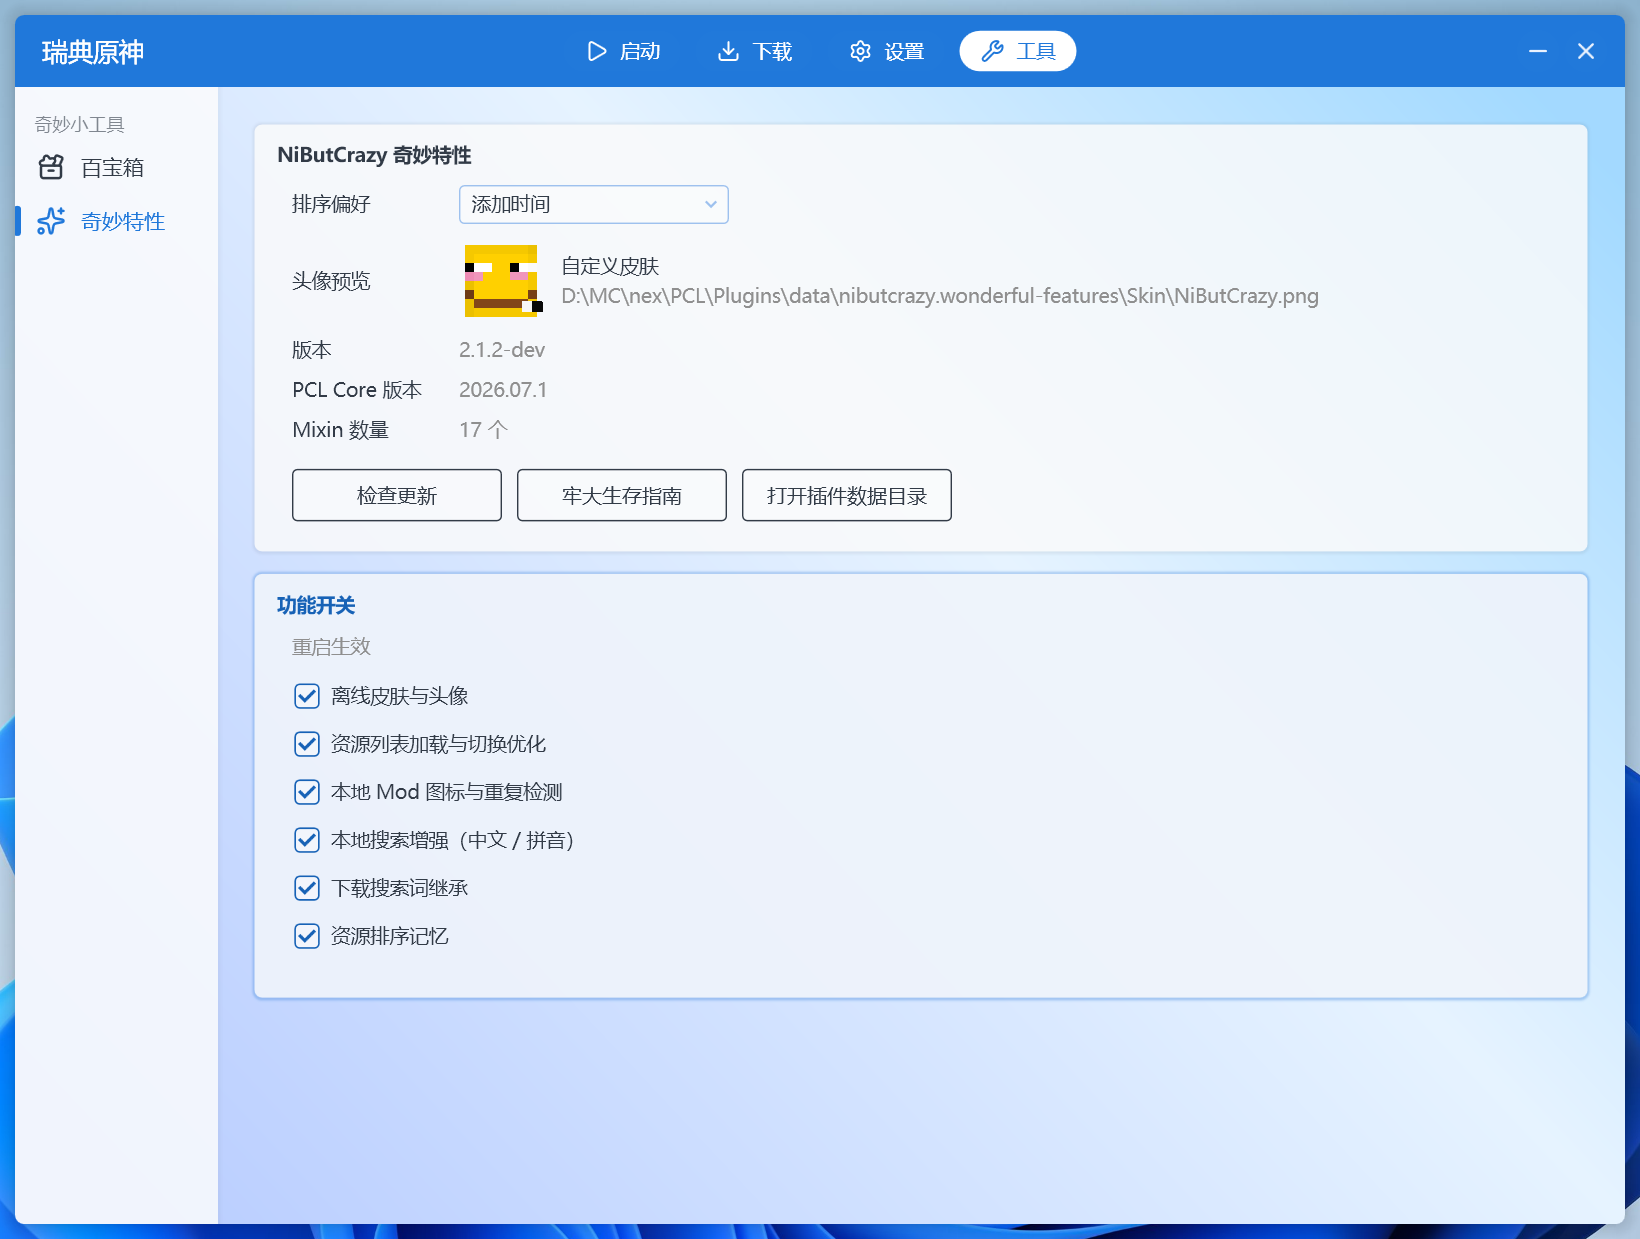
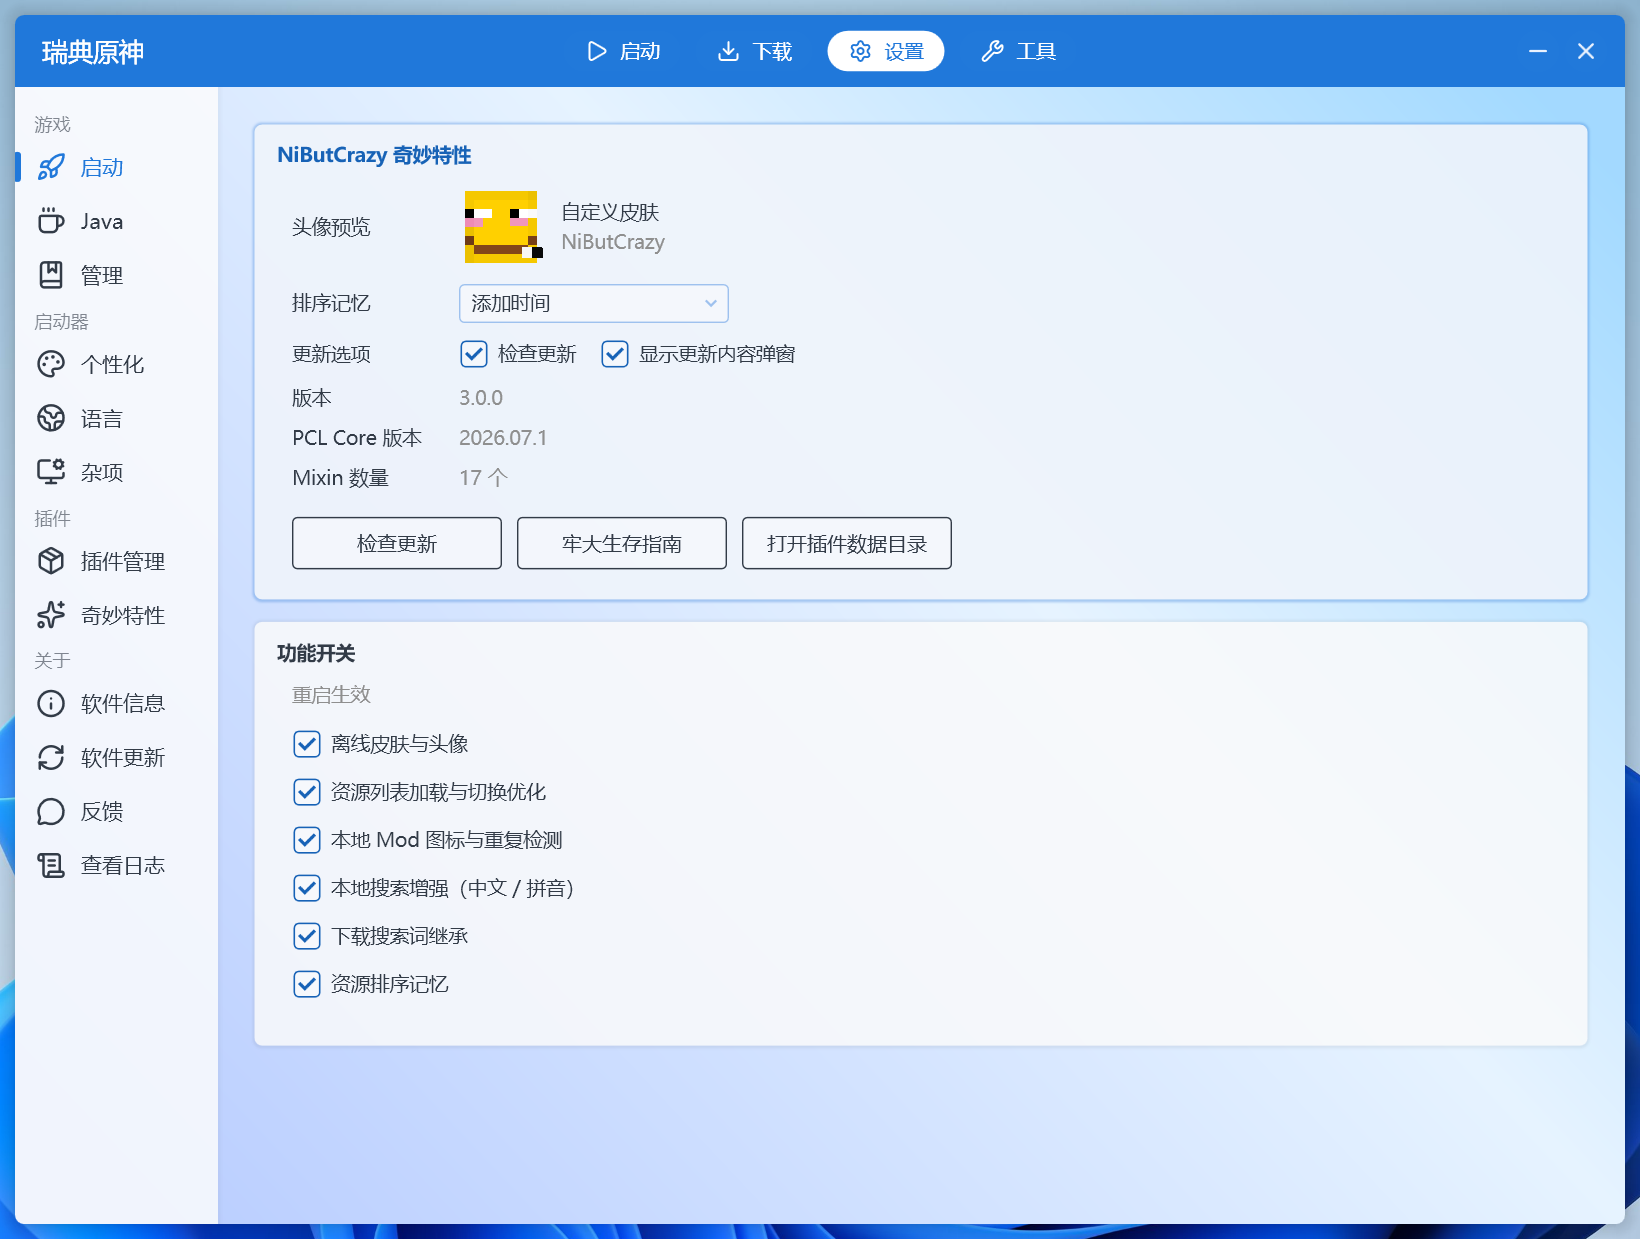
feat: 插件设置入口迁移到设置页插件管理下方
- 从工具页「奇妙小工具」移除入口，改为「设置 → 插件 → 插件管理」下的「奇妙特性」
- 新入口与「插件管理」互斥，并跟随其显示状态
- 同步 README 与 changelog 描述

diff --git a/ToolsPluginPageMixin.cs b/ToolsPluginPageMixin.cs
@@ -2,7 +2,6 @@ using System;
 using System.Diagnostics;
 using System.IO;
 using System.Linq;
-using System.Reflection;
 using System.Text.Json;
 using System.Windows;
 using System.Windows.Controls;
@@ -14,36 +13,29 @@ using PCL.Mixin;
 namespace PCL.Plugin.NiButCrazy.Mixins;
 
 /// <summary>
-/// 在「工具」页左侧「奇妙小工具」分类下、于「百宝箱」之后插入「奇妙特性」入口，
-/// 并提供一个插件自己的设置页面。
+/// 在「设置 → 插件」分类下、「插件管理」之后插入「奇妙特性设置」入口，
+/// 并返回插件自己的设置页面。
 /// </summary>
-[Mixin("PCL.PageToolsLeft", Optional = true)]
-internal static class ToolsPluginPageMixin
+[Mixin("PCL.PageSetupLeft", Optional = true)]
+internal static class SetupPluginSettingsMixin
 {
-    private static readonly FormMain.PageSubType PluginPageId = FormMain.PageSubType.ToolsPluginInstalled;
-
-    private static readonly FieldInfo? PageIdField = typeof(PageToolsLeft).GetField(
-        "pageID",
-        BindingFlags.Instance | BindingFlags.Public | BindingFlags.NonPublic);
+    private static readonly FormMain.PageSubType PluginSettingsPageId = (FormMain.PageSubType)103;
 
     private static ToolsPluginSettingsPage? _page;
 
-    [Inject("PageLinkLeft_Loaded", At = MixinAt.Head)]
-    private static void BeforeLoaded([This] PageToolsLeft page) => EnsureItem(page);
+    [Inject("PageSetupLeft_Loaded", At = MixinAt.Head)]
+    private static void BeforeLoaded([This] PageSetupLeft page) => EnsureItem(page);
 
     [Inject("PageGet", At = MixinAt.Head, Cancellable = true)]
     private static void PageGet(
-        [This] PageToolsLeft page,
+        [This] PageSetupLeft page,
         [Arg(0)] FormMain.PageSubType? id,
         CallbackInfo<object> callback)
     {
         try
         {
-            var target = id;
-            if (target is null && PageIdField?.GetValue(page) is FormMain.PageSubType current)
-                target = current;
-
-            if (target != PluginPageId) return;
+            var target = id ?? page.pageID;
+            if (target != PluginSettingsPageId) return;
             callback.SetReturnValue(_page ??= new ToolsPluginSettingsPage());
         }
         catch (Exception ex)
@@ -52,20 +44,20 @@ internal static class ToolsPluginPageMixin
         }
     }
 
-    private static void EnsureItem(PageToolsLeft page)
+    private static void EnsureItem(PageSetupLeft page)
     {
         try
         {
             if (page.FindName("PanItem") is not StackPanel panItem) return;
             if (panItem.Children.OfType<MyListItem>()
-                .Any(item => item.Tag is int tag && tag == (int)PluginPageId))
+                .Any(item => item.Tag is int tag && tag == (int)PluginSettingsPageId))
                 return;
 
             var item = new MyListItem
             {
                 Title = "奇妙特性",
                 Type = MyListItem.CheckType.RadioBox,
-                Tag = (int)PluginPageId,
+                Tag = (int)PluginSettingsPageId,
                 Height = 36,
                 MinPaddingRight = 35,
                 VerticalAlignment = VerticalAlignment.Top,
@@ -77,9 +69,9 @@ internal static class ToolsPluginPageMixin
             {
                 try
                 {
-                    if (page.FindName("ItemTest") is MyListItem itemTest)
-                        itemTest.SetChecked(false, false, false);
-                    page.PageChange(PluginPageId);
+                    if (page.FindName("ItemPluginInstalled") is MyListItem installed)
+                        installed.SetChecked(false, false, false);
+                    page.PageChange(PluginSettingsPageId);
                 }
                 catch (Exception ex)
                 {
@@ -87,11 +79,19 @@ internal static class ToolsPluginPageMixin
                 }
             };
 
-            // 点击「百宝箱」时取消本项的选中状态。
-            if (page.FindName("ItemTest") is MyListItem existing)
-                existing.Check += (_, _) => item.SetChecked(false, false, false);
+            if (page.FindName("ItemPluginInstalled") is MyListItem anchor)
+            {
+                anchor.Check += (_, _) => item.SetChecked(false, false, false);
+                anchor.IsVisibleChanged += (_, _) => item.Visibility = anchor.Visibility;
+                item.Visibility = anchor.Visibility;
 
-            panItem.Children.Add(item);
+                var index = panItem.Children.IndexOf(anchor);
+                panItem.Children.Insert(index + 1, item);
+            }
+            else
+            {
+                panItem.Children.Add(item);
+            }
         }
         catch (Exception ex)
         {

diff --git a/README.md b/README.md
@@ -62,9 +62,9 @@
 > [!NOTE]
 > 该功能处于测试中，可能更新频繁...
 
-### 工具页设置
+### 插件设置页
 
-- **奇妙特性入口**：在「工具 → 奇妙小工具」分类下、百宝箱之后新增「奇妙特性」入口，点击打开独立设置页。
+- **入口位置**：在「设置 → 插件」分类下、「插件管理」之后新增「奇妙特性」，点击打开独立设置页。
 - **排序记忆**：直接设置资源管理的默认排序方式，修改后立即保存。
 - **头像预览**：显示当前离线档案的头像和皮肤文件名；自定义皮肤支持悬停查看地址、点击复制，换肤后再次进入页面自动刷新。
 - **更新选项**：可分别关闭「启动时检查更新」和「更新后显示更新内容弹窗」。
@@ -282,8 +282,8 @@ dist/nibutcrazy.wonderful-features.zip    同样内容
 | `PageInstanceCompResource.RefreshBars` | Inject HEAD | 批次加载期间抑制计数刷新；异步统计结束后校正本地重复项计数与按钮可见性 |
 | `PageInstanceCompResource.CanPassFilter` | Inject HEAD | 「重复」筛选补充基于本地 `modId` 的检测 |
 | `ModLocalComp.LocalCompFile.GetLogo` | Overwrite | 在线图标优先，缺少时后台解析 Forge/NeoForge `logoFile` |
-| `PageToolsLeft.PageLinkLeft_Loaded` | Inject HEAD | 在「奇妙小工具」分类下插入「奇妙特性」导航项 |
-| `PageToolsLeft.PageGet` | Inject HEAD | 返回插件自己的「奇妙特性」设置页 |
+| `PageSetupLeft.PageSetupLeft_Loaded` | Inject HEAD | 在「插件管理」下方插入「奇妙特性」导航项 |
+| `PageSetupLeft.PageGet` | Inject HEAD | 返回插件自己的「奇妙特性」页面 |
 
 ### 兼容性
 
